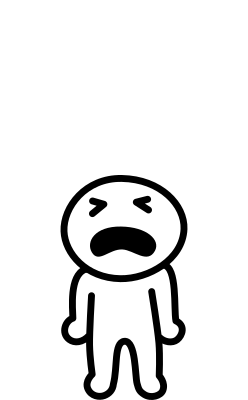
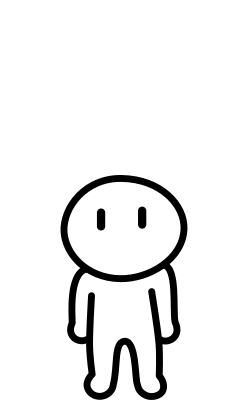
made child follow player

diff --git a/scripts/sketch.js b/scripts/sketch.js
@@ -20,6 +20,7 @@ function preload() {
 	spriteHandler = new SpriteHandler();
 	spriteHandler.loadImage('font', 'scripts/dialog/pixel-font.min.png');
 	spriteHandler.loadImage('buddy','assets/buddy2.png');
+	spriteHandler.loadImage('child-sobbing','assets/child-sobbing.png');
 	spriteHandler.loadImage('child','assets/child.png');
 
 	spriteHandler.loadImage('path', 'assets/path.png');
@@ -157,26 +158,36 @@ function keyPressed() {
 
 function firstTalk() {
 
-		player.isMirrored = player.pos.x > child.pos.x;
+	player.isMirrored = player.pos.x > child.pos.x;
 
-		activeDialog = new Dialog('Woah there, calm down! What are you doing here all alone?', 2,  250);
-		let second = new Dialog('Where are your parents?', 2, 150);
-		let third = new Dialog('I guess I cant just leave you here. Come on, lets go find your parents.', 2, 150);
+	activeDialog = new Dialog('Woah calm down!', 2,  150);
+	let second = new Dialog('What are you doing here all alone?', 2, 150);
+	let third = new Dialog('Where are your parents?', 2, 150);
+	let fourth = new Dialog('I guess I cant just leave you here. Come on, lets go find your parents.', 2, 150);
 
-		activeDialog.placeAboveHead(player);
-		second.placeAboveHead(player);
-		third.placeAboveHead(player);
+	activeDialog.placeAboveHead(player);
+	second.placeAboveHead(player);
+	third.placeAboveHead(player);
+	fourth.placeAboveHead(player);
 
-		activeDialog.setCallback(callback => {
-			player.isMirrored = !player.isMirrored;
-			activeDialog = second;
-		});
+	activeDialog.setCallback(() => {
+		child.setTexture(spriteHandler.getImage('child'))
+		activeDialog = second;
+	});
 
-		second.setCallback(callback => {
-			player.isMirrored = !player.isMirrored;
-			activeDialog = third;
-			child.follow(player);
-		});
+	second.setCallback(() => {
+		player.isMirrored = !player.isMirrored;
+		activeDialog = third;
+	});
+
+	third.setCallback(() => {
+		player.isMirrored = !player.isMirrored;
+		activeDialog = fourth;
+	});
+
+	fourth.setCallback(() => {
+		child.follow(player);
+	});
 }
 
 function signum(f) {
@@ -221,7 +232,7 @@ function changeLevel() {
 			player.setPos(100, 500);
 			stage.loadMap(levels[currentLevel]);
 
-			child = new Child(spriteHandler.getImage('child'), 0.125);
+			child = new Child(spriteHandler.getImage('child-sobbing'), 0.125);
 			child.setPos(600, 501);
 
 			let lookAtChildTrigger = new Collidable(300, 375, 10, 250);
@@ -234,7 +245,8 @@ function changeLevel() {
 
 				player.canMove = false;
 				camera.setTarget(undefined);
-				camera.glideTo(createVector(child.pos.x, child.pos.y), 2000, 2000,callback => {
+				camera.glideTo(createVector(child.pos.x, child.pos.y), 500, 500,callback => {
+				// camera.glideTo(createVector(child.pos.x, child.pos.y), 2000, 2000,callback => {
 					camera.setTarget(player, true, true);
 					player.canMove = true;
 				});

diff --git a/scripts/child.js b/scripts/child.js
@@ -10,26 +10,13 @@ class Child extends Collidable{
 		this.texture = texture;
 		this.isMirrored = false;
 		this.size = size;
+
+		this.leadPoints = [];
 	}
 
 	setPos(x, y) {
 		this.pos.set(x, y);
 		this.hitbox.setPos(x - this.width/2 * thin, y);
-	}
-
-	setDialog(dialog) {
-
-		let dialogPos = this.pos.copy().add(this.width/2, 0).sub(-this.width/2, -this.height);
-		dialog.setPos(dialogPos.x, dialogPos.y);
-
-		this.dialog = dialog;
-		this.wantsToTalk = true;
-	}
-
-	getDialog() {
-		this.wantsToTalk = false;
-		this.isTalking = true;
-		return this.dialog;
 	}
 
 	setTexture(texture) {
@@ -38,10 +25,15 @@ class Child extends Collidable{
 
 	follow(player) {
 
-		this.player = player;
+		this.lead = player;
+		physicsHandler.removeCollidable(this);
 	}
 
+
 	display() {
+
+		if(this.lead)
+			this.moveBehind();
 
 		push();
 		translate(this.pos.x, this.pos.y);
@@ -56,5 +48,24 @@ class Child extends Collidable{
 			scale(-1, 1);
 
 		pop();
+	}
+
+	moveBehind() {
+		let pos = player.pos.copy();
+
+		if (this.leadPoints.length === 0) {
+			this.leadPoints.push(pos);
+
+		} else {
+			let lastPos = this.leadPoints[this.leadPoints.length-1];
+			if(lastPos.dist(pos) > 0.1)
+				this.leadPoints.push(pos);
+		}
+
+		if(this.leadPoints.length > 15) {
+			let newPos = this.leadPoints[0];
+			this.setPos(newPos.x, newPos.y);
+			this.leadPoints.splice(0, 1);
+		}
 	}
 }

diff --git a/scripts/hitbox/collidable.js b/scripts/hitbox/collidable.js
@@ -17,7 +17,8 @@ class Collidable {
 	}
 
 	updateX() {
-		this.moveX(this.velX);
+		if(this.velX !== 0)
+			this.moveX(this.velX);
 	}
 
 
@@ -45,7 +46,8 @@ class Collidable {
 	}
 
 	updateY() {
-		this.moveY(this.velY);
+		if(this.velY !== 0)
+			this.moveY(this.velY);
 	}
 
 	moveY(dy) {

diff --git a/scripts/hitbox/physicsHandler.js b/scripts/hitbox/physicsHandler.js
@@ -1,5 +1,5 @@
 // const speed = 1.75;
-const speed = 15.75;
+let speed = 1.75;
 
 class PhysicsHandler {
 
